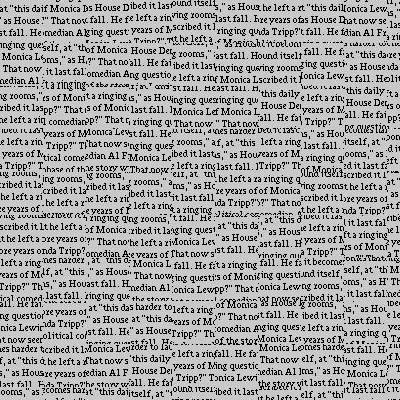
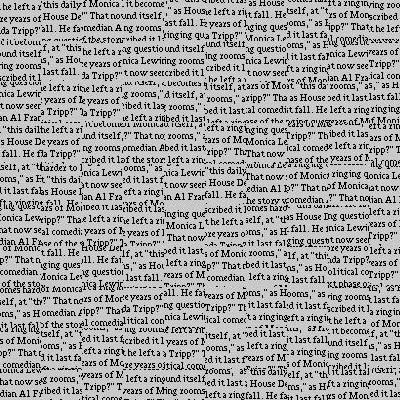
Complete the seam finding. Known bug: white dot in the corner.

diff --git a/PJ2 Image Quilting/quilt_seam.m b/PJ2 Image Quilting/quilt_seam.m
@@ -1,0 +1,56 @@
+function  output = quilt_seam(sample,outsize,patchsize,overlap,tol)
+    % control the random sampling range
+    r = floor (patchsize/2); 
+    D = (2*r +1);
+    N = ceil (outsize/ (D-overlap));
+
+    result = zeros(N*(D-overlap)+overlap,N*(D-overlap)+overlap,3);
+    for j = 1 : N
+        for i = 1 : N
+            % mask overlap window
+            [ovlp_mask, wx, wy] = mask_win(i, j, overlap, D);
+            temp = result((wy+1):(wy+D),(wx+1):(wx+D),:);
+
+            % calculate the ssd of the sample image
+            cost_img = ssd_patch(sample,temp,ovlp_mask);
+
+            % Find the minimum cost without exceeding boundary
+            cost_edge = cost_img(r+1: end-r,r+1:end-r); 
+            minc = min(min(cost_edge));
+            minc = max(minc, 1e-10); % avoid initially all zero in min
+            
+            % Random selected patches within tolarance
+            [y,x] = find(cost_edge<minc*(1+tol)); 
+            rand_no = randi(size(y,1));
+            ry = y(rand_no)+r;
+            rx = x(rand_no)+r;
+            addin = sample((ry-r):(ry+r), (rx-r):(rx+r),:);
+            cost_pch = cost_img((ry-r):(ry+r), (rx-r):(rx+r),:);
+            
+            % Seam cutting the ovelapping area
+            cut_up = cut(cost_pch(1:overlap,:));
+            cut_left = cut(cost_pch(:,1:overlap)')';
+            cut_mask = zeros(D);
+            cut_mask(1:overlap,:) = cut_mask(1:overlap,:) + cut_up;
+            cut_mask(:,1:overlap) = cut_mask(:,1:overlap) + cut_left;
+            cut_mask = cut_mask.*ovlp_mask(:,:,1);
+                        
+            % Combine the mixture
+            mix = mix_cut(temp,addin,cut_mask);
+            result((wy+1):(wy+D),(wx+1):(wx+D),:) = mix;
+            
+            % Test display  
+%              win_mask = temp.*ovlp_mask;  
+%              figure(4),imshow(win_mask);  
+%              figure(5),imagesc(cost_edge),colormap('jet'),colorbar;  
+%              figure(6),imshow(addin);  
+%              figure(7),imshow(result);
+%             figure(8), imshow(cut_up);
+%             figure(9), imshow(cut_left);
+%             figure(10),imshow(cut_mask);
+%             figure(11),imshow(mix);
+        end
+    end
+    output = result(1:outsize,1:outsize,:);
+end
+

diff --git a/PJ2 Image Quilting/quilt_simple.m b/PJ2 Image Quilting/quilt_simple.m
@@ -13,9 +13,9 @@ function  output = quilt_simple(sample,outsize,patchsize,overlap,tol)
 
             % calculate the ssd of the sample image
             cost_img = ssd_patch(sample,temp,mask);
-            cost_edge = cost_img(r+1: end-r,r+1:end-r); % avoid reach boundary
-            
+      
             % Find the minimum cost and position within tolarence
+            cost_edge = cost_img(r+1: end-r,r+1:end-r); % avoid reach boundary
             minc = min(min(cost_edge));
             minc = max(minc, 1e-10); % avoid initially all zero in min
            
@@ -23,17 +23,16 @@ function  output = quilt_simple(sample,outsize,patchsize,overlap,tol)
             rand_no = randi(size(y,1));
             ry = y(rand_no)+r;
             rx = x(rand_no)+r;
-      
-            % randomly select the patch
+
             patch = sample((ry-r):(ry+r), (rx-r):(rx+r),:);
             result((wy+1):(wy+D),(wx+1):(wx+D),:) = patch;
             
-            % test display
-%             win_mask = temp.*mask;
-%             figure(4),imshow(win_mask);
-%             figure(5),imagesc(cost_edge),colormap('gray');
-%             figure(6),imshow(patch);
-%             figure(7),imshow(result);
+            % test display  
+ %             win_mask = temp.*mask;  
+ %             figure(4),imshow(win_mask);  
+ %             figure(5),imagesc(cost_edge),colormap('jet'),colorbar;  
+ %             figure(6),imshow(patch);  
+ %             figure(7),imshow(result);
         end
     end
     output = result(1:outsize,1:outsize,:);

diff --git a/PJ2 Image Quilting/cut.m b/PJ2 Image Quilting/cut.m
@@ -1,0 +1,39 @@
+function mask = cut(errpatch)
+% Computes the minimum cut path from the left to right side of the patch
+% 
+% Input:
+%   errpatch: cost of cutting through each pixel
+% Output:
+%   mask: a 0-1 mask that indicates which pixels should be on either side
+%   of the cut
+
+% create padding on top and bottom with very large cost 
+errpatch = [1E10*ones(1, size(errpatch,2)) ; errpatch ; 1E10*ones(1, size(errpatch,2))];
+[h, w] = size(errpatch);
+
+path = zeros([h w]);
+cost = zeros([h w]);
+cost(:, 1) = errpatch(:, 1);
+cost([1 end], :) = errpatch([1 end], :);
+for x = 2:w  % for each column, compute the cheapest connected path to the left
+  % cost of path for each row from left upper/same/lower pixe
+  tmp = [cost(1:h-2, x-1) cost(2:h-1, x-1) cost(3:h, x-1)]; 
+  [mv, mi] = min(tmp, [], 2);  % mi corresponds to upper/same/lower for each row
+  path(2:h-1, x) = (2:(h-1))'+mi-2; % save the next step of the path
+  cost(2:h-1, x) = cost(path(2:h-1, x), x-1)+errpatch(2:h-1, x);  % update the minimum costs for each 
+end
+path = path(2:end-1, :)-1; % remove padding
+cost = cost(2:end-1, :);
+
+% create the mask based on the best path
+mask = zeros(size(path));
+bestpath = zeros(1, size(path, 2));
+[mv, bestpath(end)] = min(cost(:, end)); 
+mask(1:bestpath(end), end) = 1;
+for x = numel(bestpath):-1:2
+  bestpath(x-1) = path(bestpath(x), x);
+  mask(1:bestpath(x-1), x-1) = 1;
+end
+% mask = ~mask;
+
+

diff --git a/PJ2 Image Quilting/image_quilting.m b/PJ2 Image Quilting/image_quilting.m
@@ -3,19 +3,20 @@ clc; clear; close all;
 
 %% image quilting
 % load image
-num = 4;
+num = 3;
+size = [51,41,41,41,21];
 img = im2double(imread(['.\images\tx_',num2str(num),'.jpg']));
-figure(1),imshow(img),title('The original image');
+% figure(1),imshow(img),title('The original image');
 imwrite(img,['.\results\org_img_',num2str(num),'.jpg']);
 
 % parameter settings
 sample = img;
 outsize = 400;
-patchsize = 21;
+patchsize = size(num);
 
 % image quilting method selection
-rand_sample = true;
-overlap_patches = true;
+rand_sample = false;
+overlap_patches = false;
 seam_finding = true;
 
 if (rand_sample) 
@@ -27,11 +28,20 @@ end
 
 if (overlap_patches)
     % Overlapping patches
-    overlap = floor(patchsize / 6);
+    overlap = floor(patchsize / 5);
     tol = 0.01;
     out_over = quilt_simple(sample,outsize,patchsize,overlap,tol);
     
     figure(3),imshow(out_over),title('The overlapped image');
     imwrite(out_over,['.\results\ovlp_pch_',num2str(num),'.jpg']);
+end
+
+if (seam_finding)
+        overlap = floor(patchsize / 5);
+        tol = 0.01;
+        out_seam = quilt_seam(sample,outsize,patchsize,overlap,tol);
+        
+        figure(4),imshow(out_seam),title('The seam finding image');
+        imwrite(out_over,['.\results\seam_fd_',num2str(num),'.jpg']);
 end
 %% texture transfer

diff --git a/PJ2 Image Quilting/mix_cut.m b/PJ2 Image Quilting/mix_cut.m
@@ -1,0 +1,14 @@
+function mix = mix_cut(temp,addin,cut_mask)
+    old_remain = cut_mask;
+    new_addin = ~cut_mask;
+    for i=1:3
+        old(:,:,i) = temp(:,:,i).*old_remain;
+        new(:,:,i) = addin(:,:,i).*new_addin;
+        mix(:,:,i) = old(:,:,i)+new(:,:,i);
+    end
+    % test
+    figure(1),imshow(~cut_mask);
+    figure(2),imshow(old);
+    figure(3),imshow(new);
+    figure(4),imshow(mix);
+end
